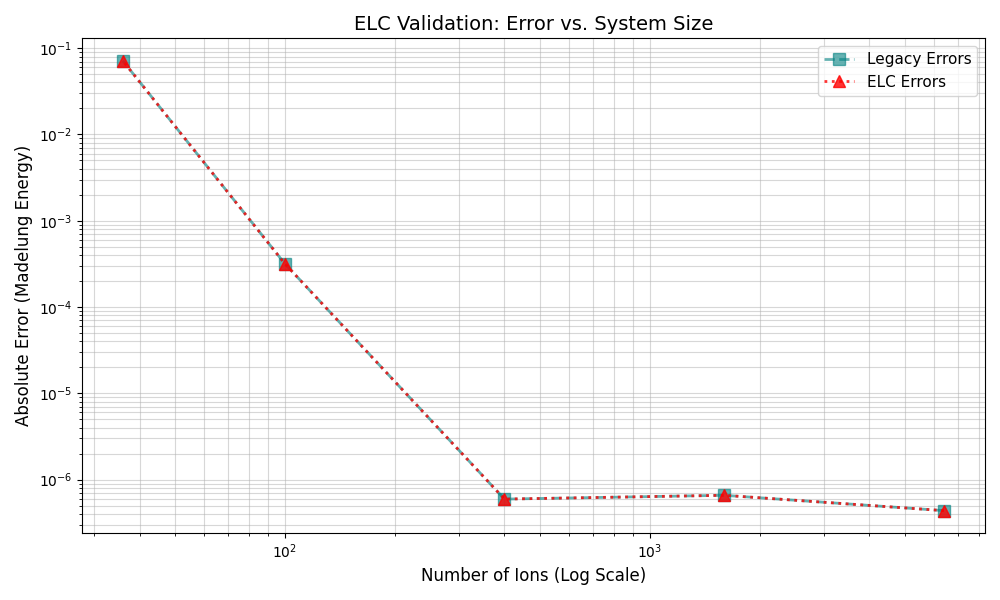
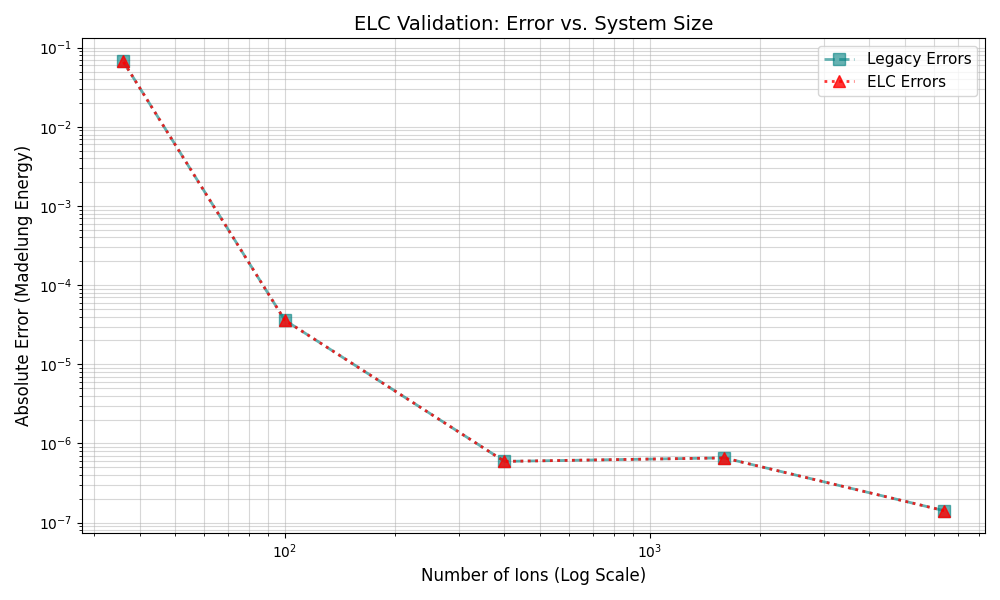
cleanup

Changed region(s): [[0.031, 0.06, 0.992, 0.9], [0.031, 0.06, 0.062, 0.09]]

diff --git a/==========JULIEN==============/elc/elc_prototype.py b/==========JULIEN==============/elc/elc_prototype.py
@@ -10,19 +10,18 @@ import espressomd # type: ignore
 import espressomd.electrostatics # type: ignore
 import numpy as np
 import math
-from elc.impl.get_legacy_elc import get_legacy_elc_energy
+from elc.src.get_legacy_elc import get_legacy_elc_energy
 
 # %%
 # TEST 1: Compare to analytical solution(energy, force) for a dipole, varying particle position, distance r
-"""
+
 from elc.tests._1_dipole.dipole_rdm_pos_energy_test import dipole_rdm_pos_energy_test
 dipole_rdm_pos_energy_test(test_count=8)
-"""
+
 # %%
 # TEST 2: Compare to analytical 2D Madelung energy of a crystal
-
-from elc.tests._2_madelung.madelung_energy_test import madelung_energy_test
-madelung_energy_test()
+#from elc.tests._2_madelung.madelung_energy_test import madelung_energy_test
+#madelung_energy_test()
 
 
 # %%

diff --git a/==========JULIEN==============/elc/tests/_X_forces/dipole_rdm_pos_force_test.py b/==========JULIEN==============/elc/tests/_X_forces/dipole_rdm_pos_force_test.py
@@ -10,7 +10,7 @@ import espressomd # type: ignore
 import espressomd.electrostatics # type: ignore
 import numpy as np
 import math
-from elc.impl.get_legacy_elc import get_legacy_elc_energy, get_legacy_elc_forces
+from elc.src.get_legacy_elc import get_legacy_elc_energy, get_legacy_elc_forces
 
 l_xy = 100.0 # keep l_xy <= 200
 l_z = 12.0
@@ -31,8 +31,8 @@ import matplotlib.pyplot as plt
 import numpy as np
 import math
 from common.generate_constrained_position_pairs import generate_constrained_pairs
-from elc.impl.get_elc_energy import get_elc_energy
-from elc.impl.get_elc_forces import get_elc_forces
+from elc.src.get_elc_energy import get_elc_energy
+from elc.src.get_elc_forces import get_elc_forces
 
 
 

diff --git a/==========JULIEN==============/elc/tests/_1_dipole/dipole_rdm_pos_energy_test.py b/==========JULIEN==============/elc/tests/_1_dipole/dipole_rdm_pos_energy_test.py
@@ -2,13 +2,13 @@ import matplotlib.pyplot as plt
 import numpy as np
 import math
 from common.generate_constrained_position_pairs import generate_constrained_pairs
-from elc.impl.get_elc_energy import get_elc_energy
+from elc.src.get_elc_energy import get_elc_energy
 
 import espressomd # type: ignore
 import espressomd.electrostatics # type: ignore
 import numpy as np
 import math
-from elc.impl.get_legacy_elc import get_legacy_elc_energy
+from elc.src.get_legacy_elc import get_legacy_elc_energy
 
 
 def dipole_rdm_pos_energy_test(test_count = 2):

diff --git a/==========JULIEN==============/elc/tests/_2_madelung/madelung_energy_test.py b/==========JULIEN==============/elc/tests/_2_madelung/madelung_energy_test.py
@@ -2,8 +2,8 @@ import espressomd
 import espressomd.electrostatics
 import numpy as np
 import matplotlib.pyplot as plt
-from elc.impl.get_legacy_elc import get_legacy_elc_energy
-from elc.impl.get_elc_energy import get_elc_energy
+from elc.src.get_legacy_elc import get_legacy_elc_energy
+from elc.src.get_elc_energy import get_elc_energy
 
 def madelung_energy_test():
     # 1. System Setup
